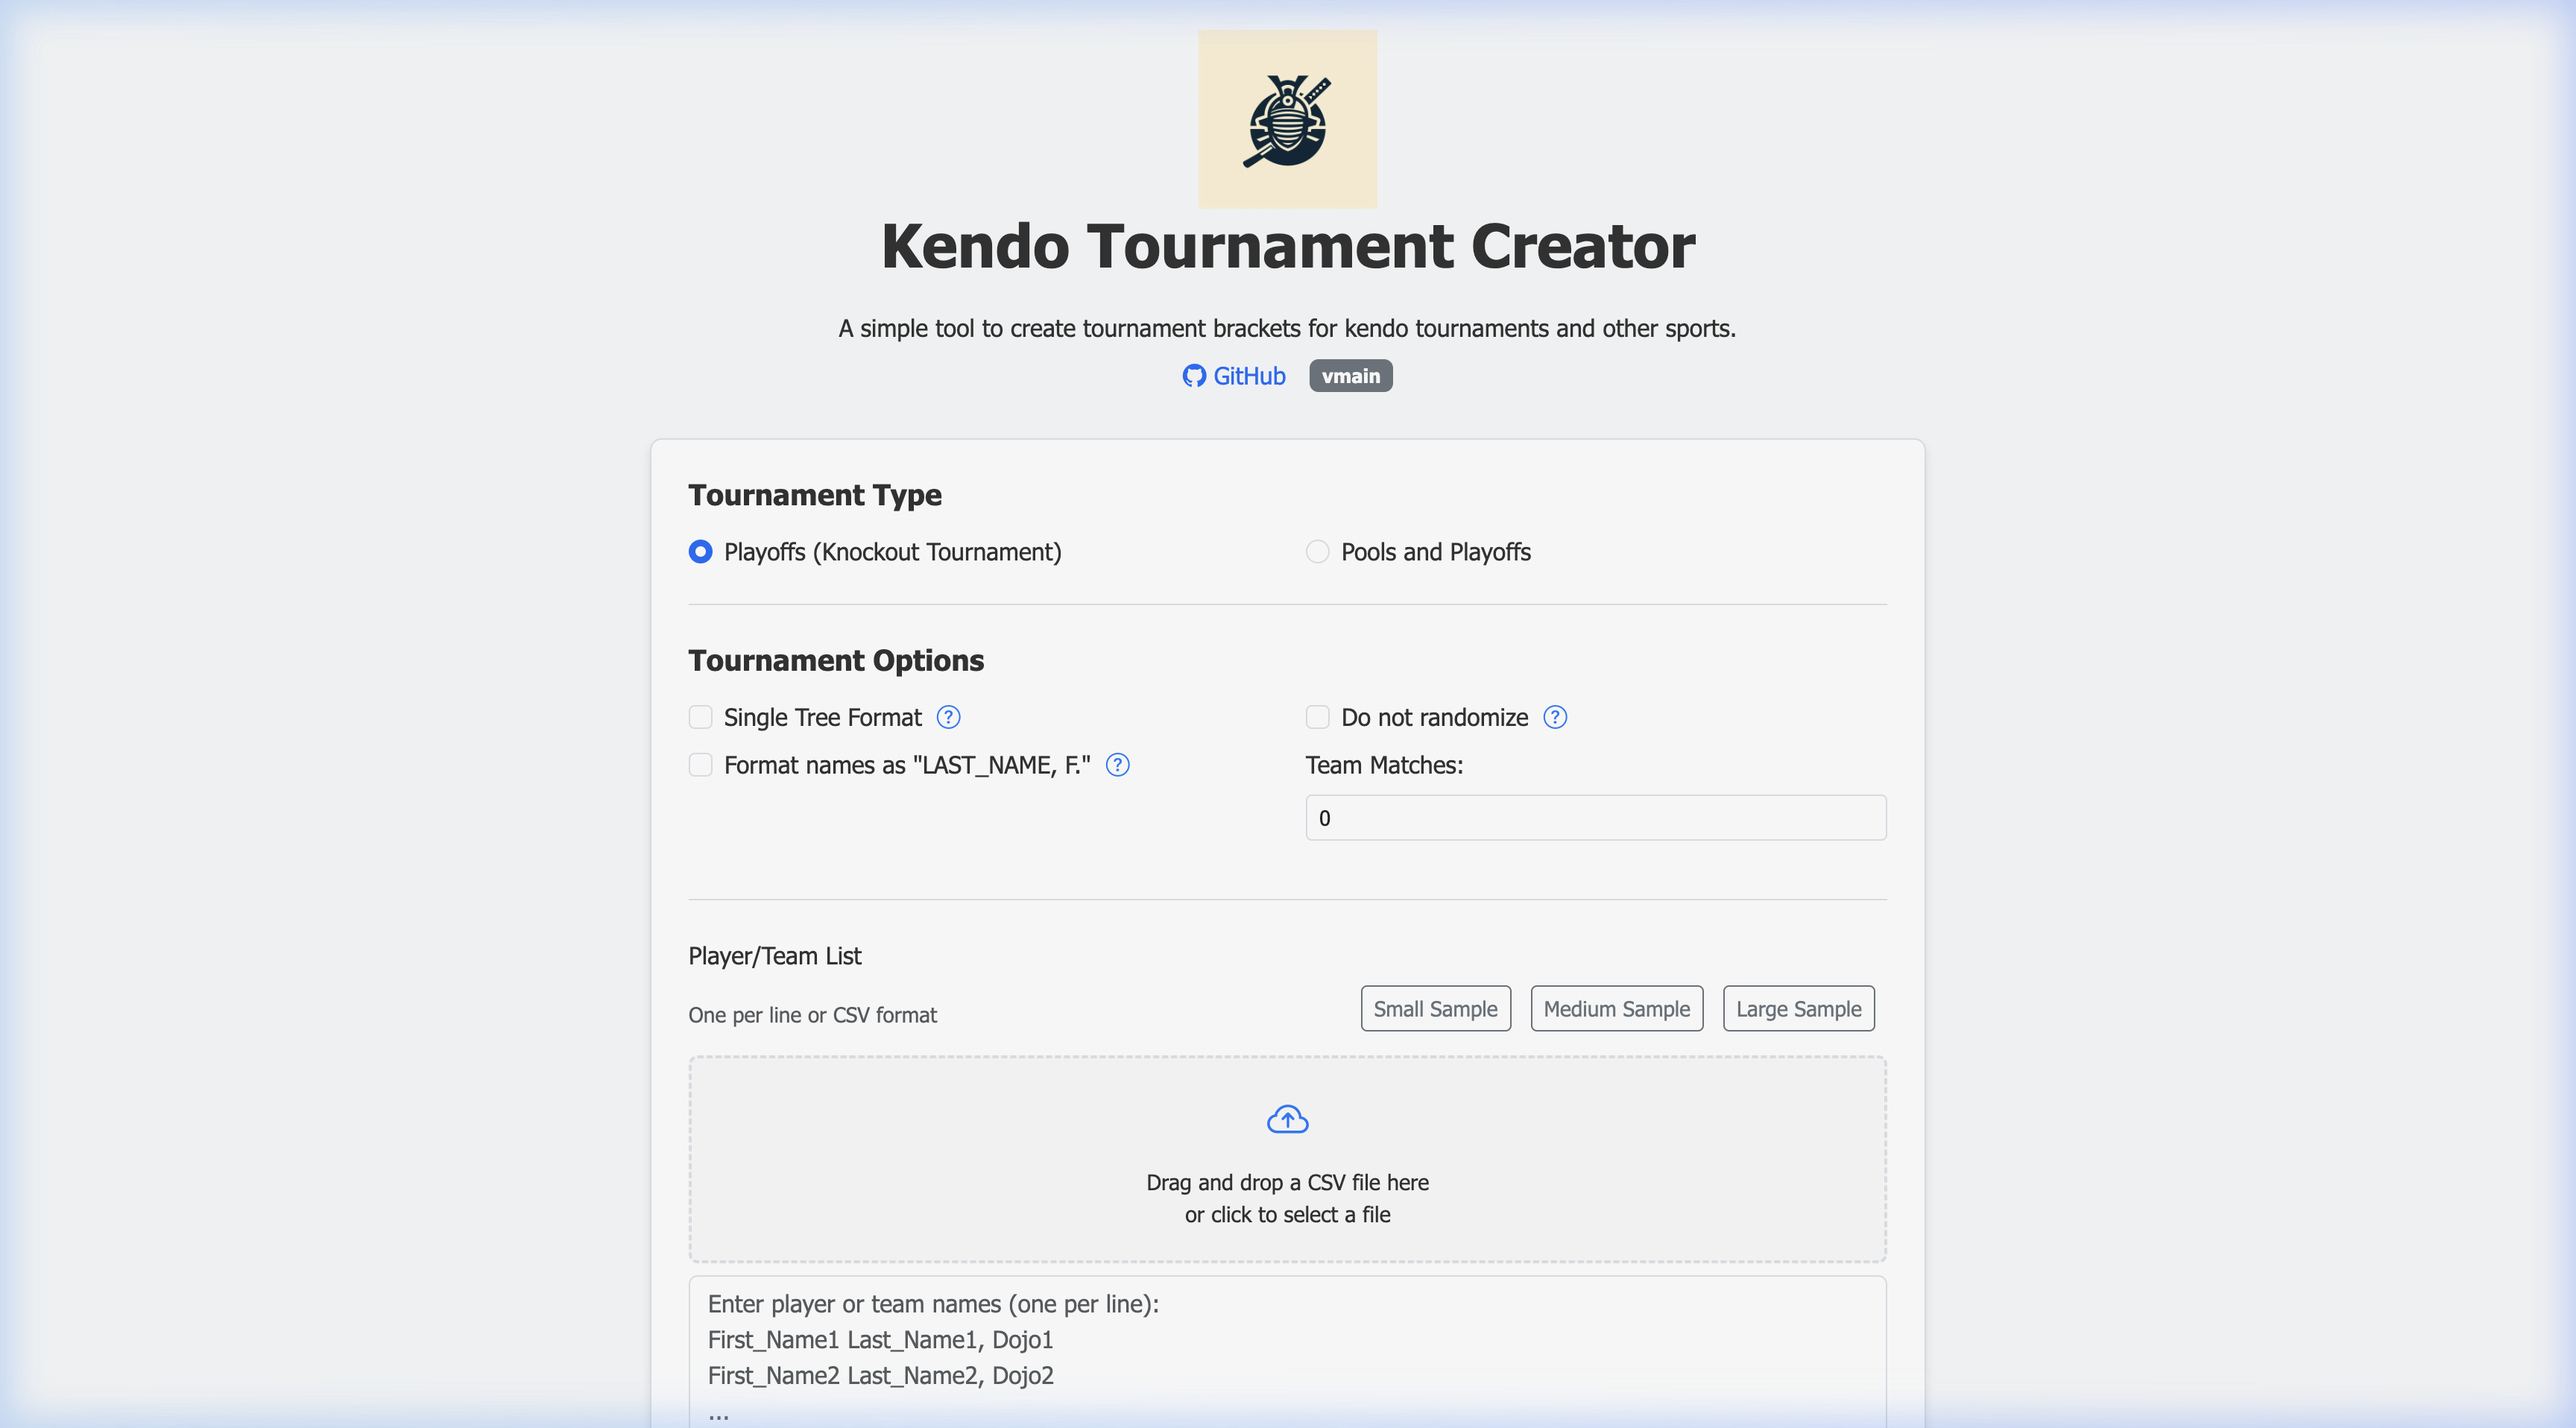
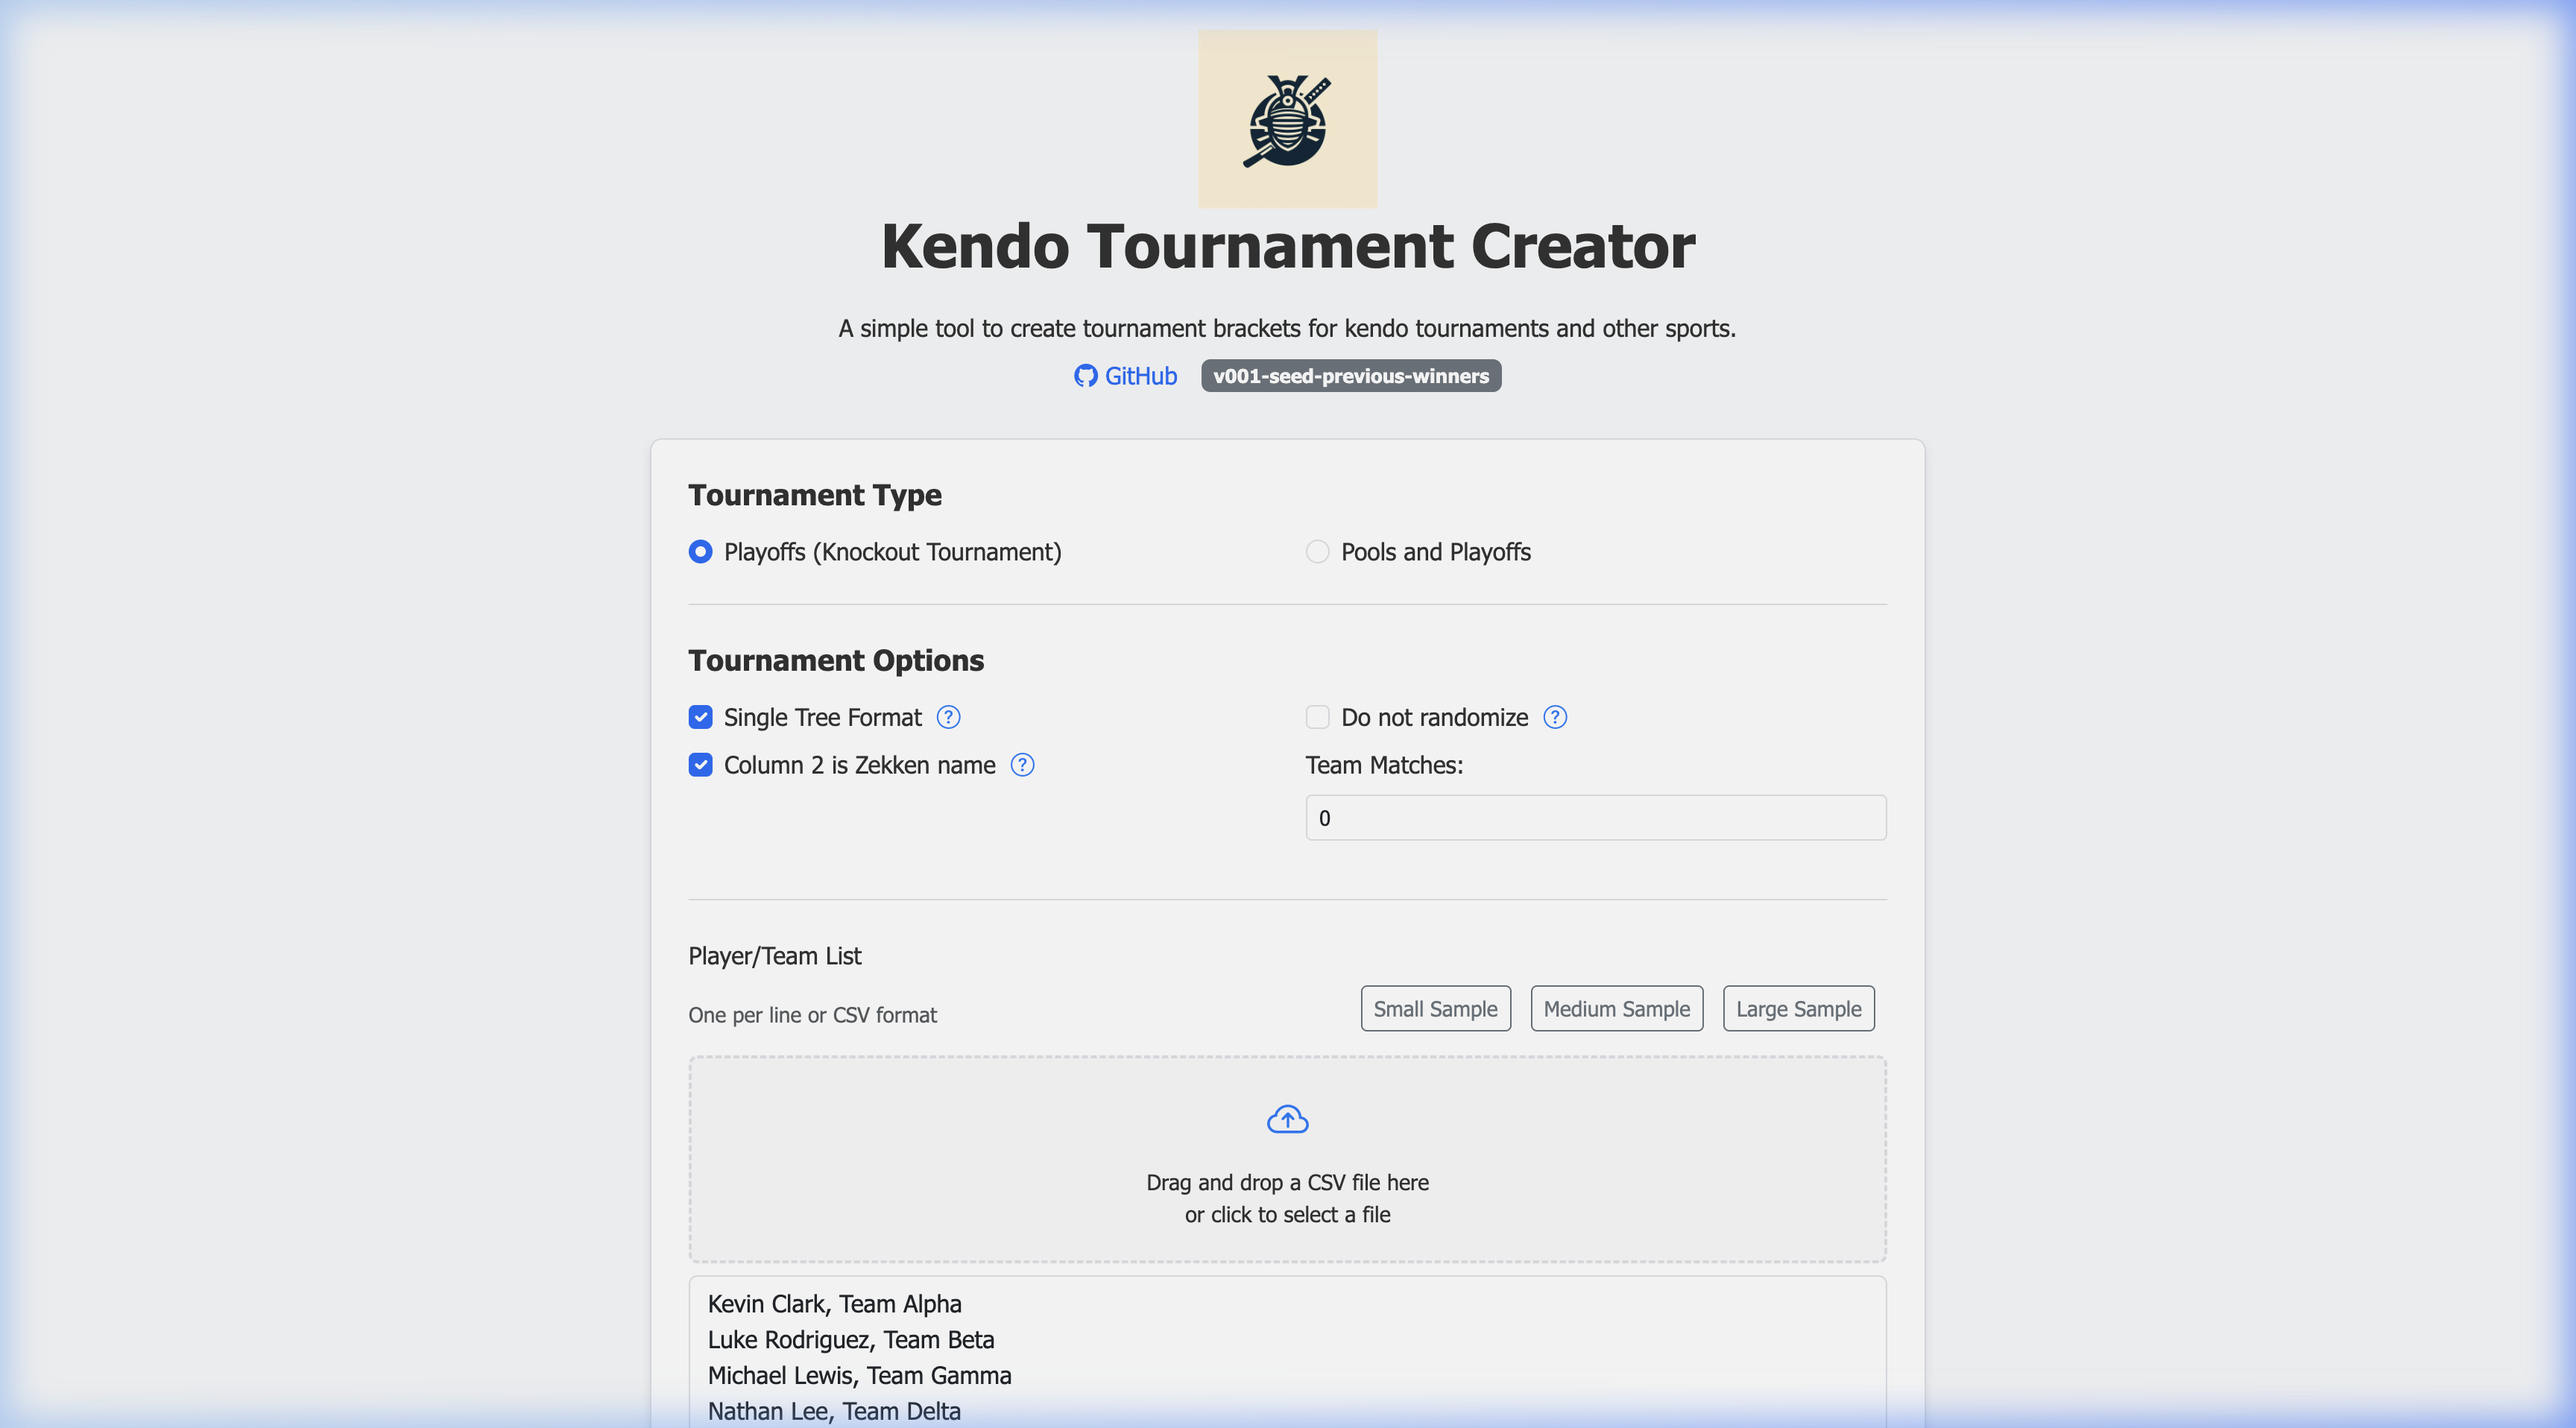
updating documentation

diff --git a/README.md b/README.md
@@ -63,12 +63,14 @@ The video below shows the full workflow: entering participants, seeding past win
 
 ![Quickstart Demo](docs/screenshots/quickstart-demo.webp)
 
+![Web UI Main](docs/screenshots/webui-main.png)
+
 ### Using the Form
 
 | Section | Description |
 |---|---|
 | **Tournament Type** | Choose *Playoffs (Knockout Tournament)* for a straight knockout, or *Pools and Playoffs* for a round-robin pool stage followed by a knockout. |
-| **Single Tree Format** | Render all participants on one bracket sheet instead of splitting across multiple pages. |
+| **Single Tree Format** | Render all participants on one bracket sheet instead of splitting across multiple pages. (CLI: `--single-tree`) |
 | **Do not randomize** | Preserve the input order instead of shuffling participants. |
 | **Column 2 is Zekken name** | Enable to use the second column of the input CSV as the participant's display name on the zekken. |
 | **Team Matches** | Number of players per team. Set to `0` for individual matches. |
@@ -80,6 +82,8 @@ The video below shows the full workflow: entering participants, seeding past win
 
 Click the **☆ Seed Participants** button to open the seeding modal. This lets you lock past tournament winners into advantageous bracket positions before the draw.
 
+![Seeding Modal](docs/screenshots/webui-seeding-modal.png)
+
 In the modal:
 - Each participant is listed with their dojo and a **Seed Rank** input field.
 - Enter a **positive integer** to seed a participant (e.g., `1` = top seed, `2` = second seed).
@@ -88,6 +92,8 @@ In the modal:
 - Seeded participants are **strictly validated**: every seeded name must exactly match a name in the participant list (case-sensitive). If a name does not match, the bracket generation will fail with a clear error.
 
 After saving, the button label changes to **★ N Seeds Assigned** (highlighted in amber) and the seeds are submitted with the form.
+
+![Seeds Assigned](docs/screenshots/webui-seeds-assigned.png)
 
 There's also a CLI. To learn how to use the CLI run:
 ```bash
@@ -140,6 +146,7 @@ bracket-creator create-pools -z -p 5 -w 3 -f ./mock_data_medium.csv -o ./pools-e
 * `-r` / `-round-robin` - Round robin, to ensure that in a pool of 4 or more, everyone would fight everyone. Otherwise, everyone fights only twice in their pool. The default is False
 * `-z` / `-with-zekken-name` - Use the second column of the input CSV as the participant's display name on the zekken. If empty, falls back to a sanitized name.
 * `-t` / `-team-matches` - Create team matches with x players per team. Default is 0, which means these are not team matches
+* `--single-tree` - Create a single tree instead of dividing into multiple sheets
 
 ### CLI Parameters to create Playoffs
 Example command line to create team playoffs with 5 players per team:
@@ -154,6 +161,7 @@ bracket-creator create-playoffs -t 5 -f ./mock_data_small.csv -o ./playoffs-exam
 * `-z` / `-with-zekken-name` - Use the second column of the input CSV as the participant's display name on the zekken. If empty, falls back to a sanitized name.
 * `-t` / `-team-matches` - Create team matches with x players per team. Default is 0, which means these are not team matches
 * `--seeds` - Path to a CSV file mapping exact participant names to their initial seed rank (see [Seeding via CLI](#seeding-via-cli))
+* `--single-tree` - Create a single tree instead of dividing into multiple sheets
 
 ### Seeding via CLI
 
